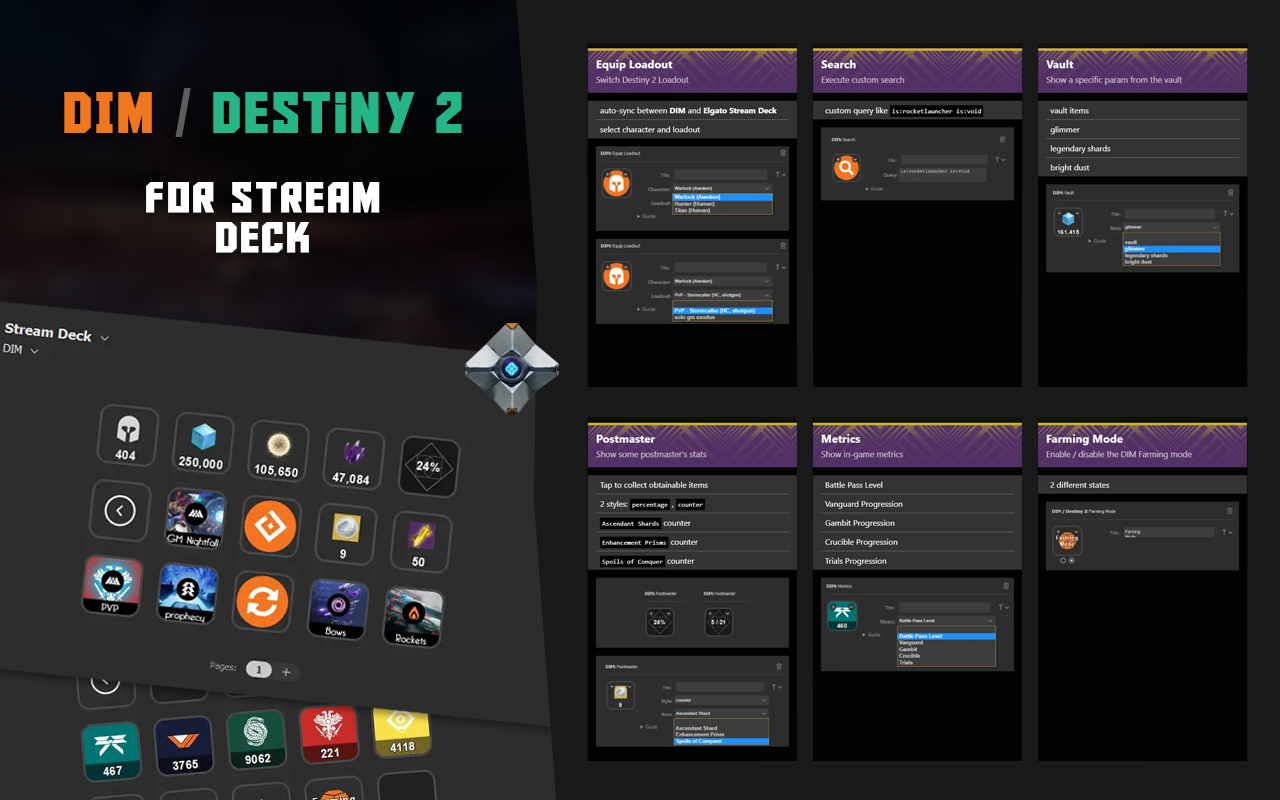
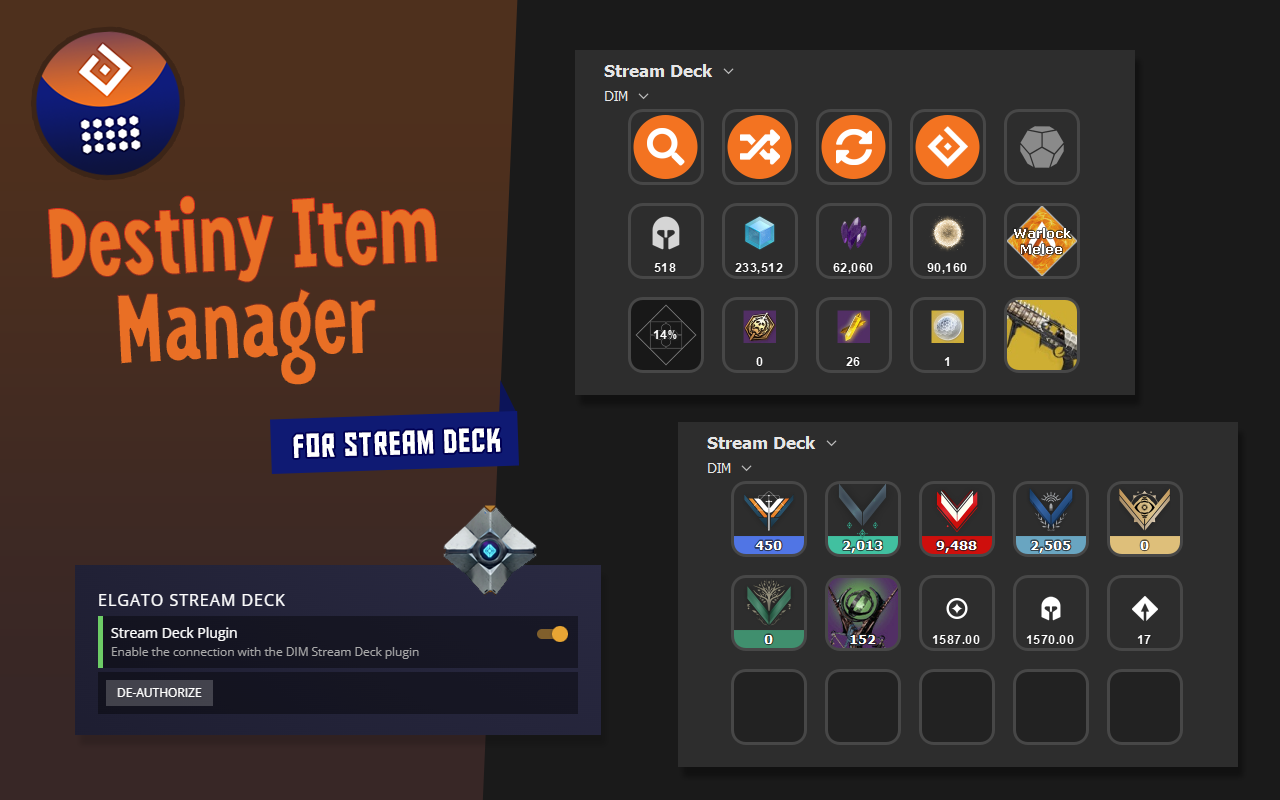
remove wss and self-signed certs update readme, plugin's preview and funding

diff --git a/stream-deck-plugin/src/ws/server.ts b/stream-deck-plugin/src/ws/server.ts
@@ -1,18 +1,19 @@
 import { WebSocket, WebSocketServer } from 'ws';
 import { sd } from '../index';
 import { DimAction, ExtWebSocket, MessageHandlers } from '../interfaces';
-import { createServer } from 'https';
 import {
   authorizationChallengeHandler,
   authorizationResetHandler,
   updateHandler,
 } from './msg-handlers';
-import { certs } from '../security/certs';
 import { tokenOf } from '../security/authorization';
 
 export const clients: Record<string, WebSocket> = {};
-const server = createServer(certs);
-const wss = new WebSocketServer({ server });
+
+const server = new WebSocketServer({
+  port: 9119,
+  host: 'localhost',
+});
 
 export const sendToDIM = (
   action: DimAction,
@@ -33,10 +34,10 @@ export const sendToDIM = (
     }
     return;
   }
-  wss.clients.forEach((client) => sendToDIM(action, args, client));
+  server.clients.forEach((client) => sendToDIM(action, args, client));
 };
 
-wss.on('error', () => {
+server.on('error', () => {
   sd.logMessage('There is another instance of this plugin running');
   process.exit();
 });
@@ -48,7 +49,7 @@ const handlers: MessageHandlers = {
 };
 
 export const init = () => {
-  wss.on('connection', (ws: ExtWebSocket) => {
+  server.on('connection', (ws: ExtWebSocket) => {
     // disallow any not identified connection
     if (!ws.protocol) {
       return ws.close();
@@ -86,5 +87,3 @@ export const init = () => {
     });
   });
 };
-
-server.listen(9119, 'localhost');

diff --git a/stream-deck-plugin/src/constant.ts b/stream-deck-plugin/src/constant.ts
@@ -2,8 +2,6 @@ import { join } from 'path';
 
 export const IMAGE_PATH = __dirname ? join(__dirname, '../images') : './images';
 
-export const SSL_PATH = __dirname ? join(__dirname, '../ssl') : './ssl';
-
 export const CENTER_BY_TYPE = [
   [1, 2],
   [0, 1],

diff --git a/README.md b/README.md
@@ -1,13 +1,8 @@
 # DIM Stream Deck
 
-A Stream Deck plugin to interact with Destiny Item Manager and Destiny 2
+A Stream Deck plugin to interact with Destiny Item Manager
 
 [![](https://img.shields.io/badge/Stream%20Deck%20SDK-for%20Node.js-green)](https://github.com/stream-deck-for-node/sdk)
-
-> # THIS PLUGIN IS UNDER DEVELOPMENT
-> Download and install only if you can use my development branch of DIM https://github.com/fcannizzaro/DIM/tree/stream-deck-integration
->
-> Follow this pr https://github.com/DestinyItemManager/DIM/pull/8501 for the integration's state
 
 ## Installation
 
@@ -22,9 +17,13 @@ Go to [dim-stream-deck.netlify.app](https://dim-stream-deck.netlify.app) to see 
 
 ## Preview
 
-![actions1](https://github.com/fcannizzaro/com.dim.streamdeck/blob/main/media/preview.png?raw=true)
+![actions1](https://github.com/fcannizzaro/com.dim.streamdeck/blob/main/media/page-1.png?raw=true)
 
-![actions2](https://github.com/fcannizzaro/com.dim.streamdeck/blob/main/media/preview-1.png?raw=true)
+![actions2](https://github.com/fcannizzaro/com.dim.streamdeck/blob/main/media/page-2.png?raw=true)
+
+# Contributing
+
+See [contributing.md](https://github.com/fcannizzaro/com.dim.streamdeck/blob/main/CONTRIBUTING.md) for information on how to Contribute to the development of DIM Stream Deck.
 
 ## Author
 
